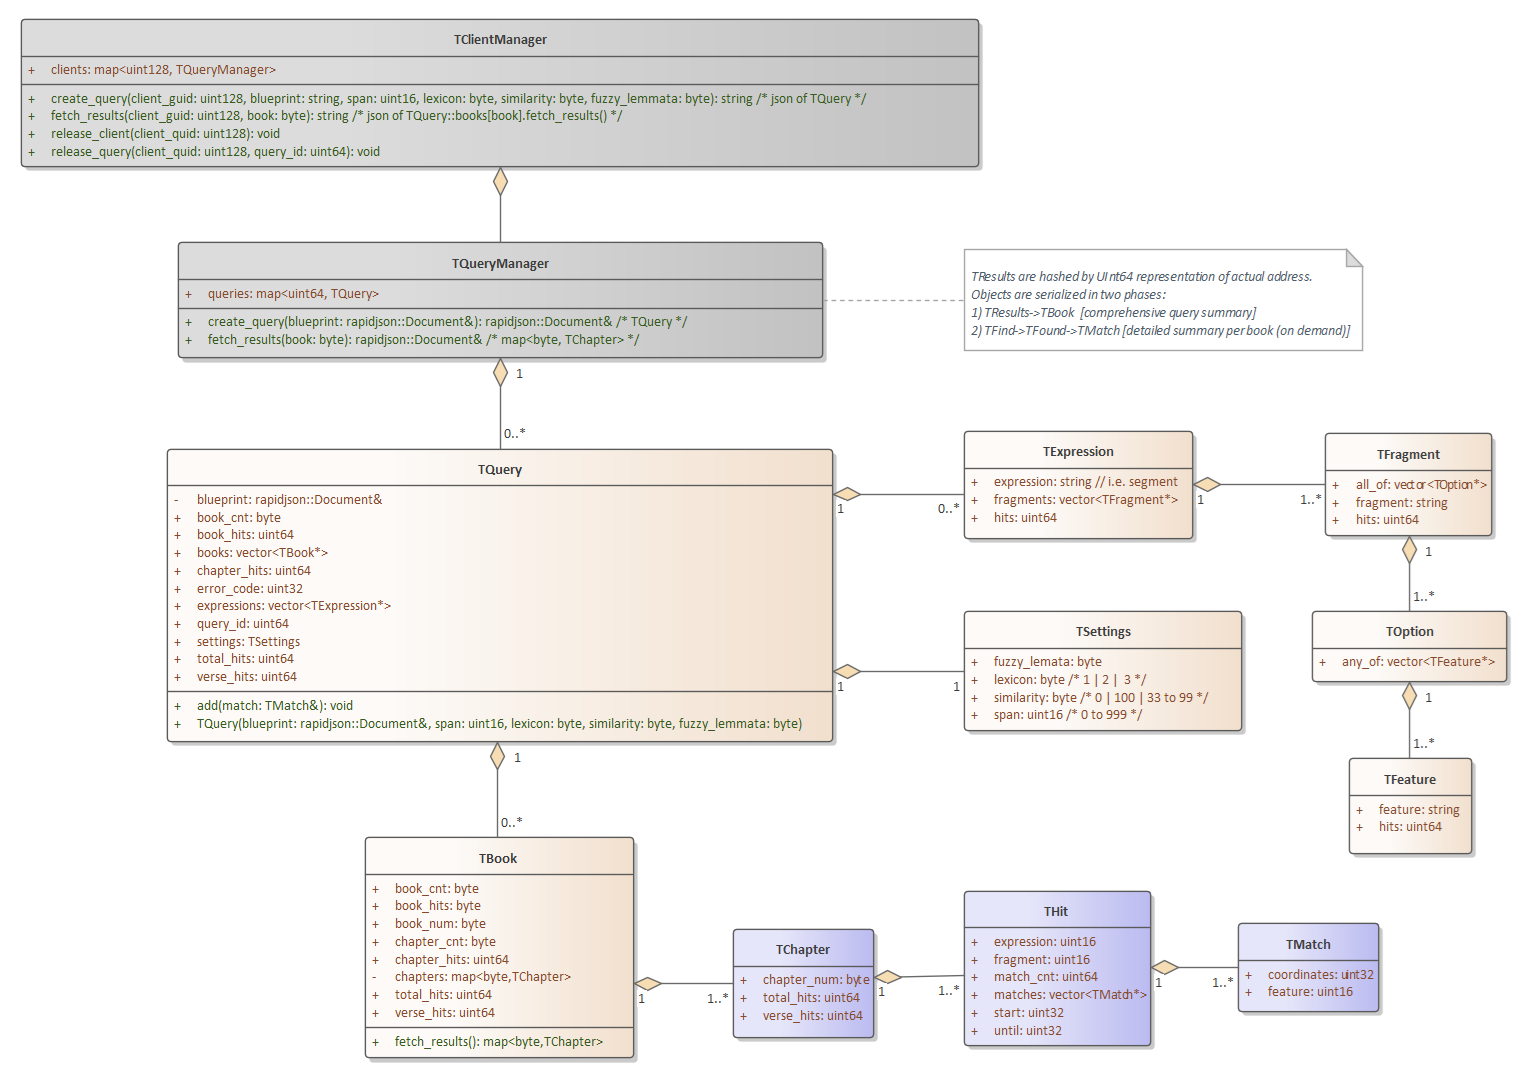
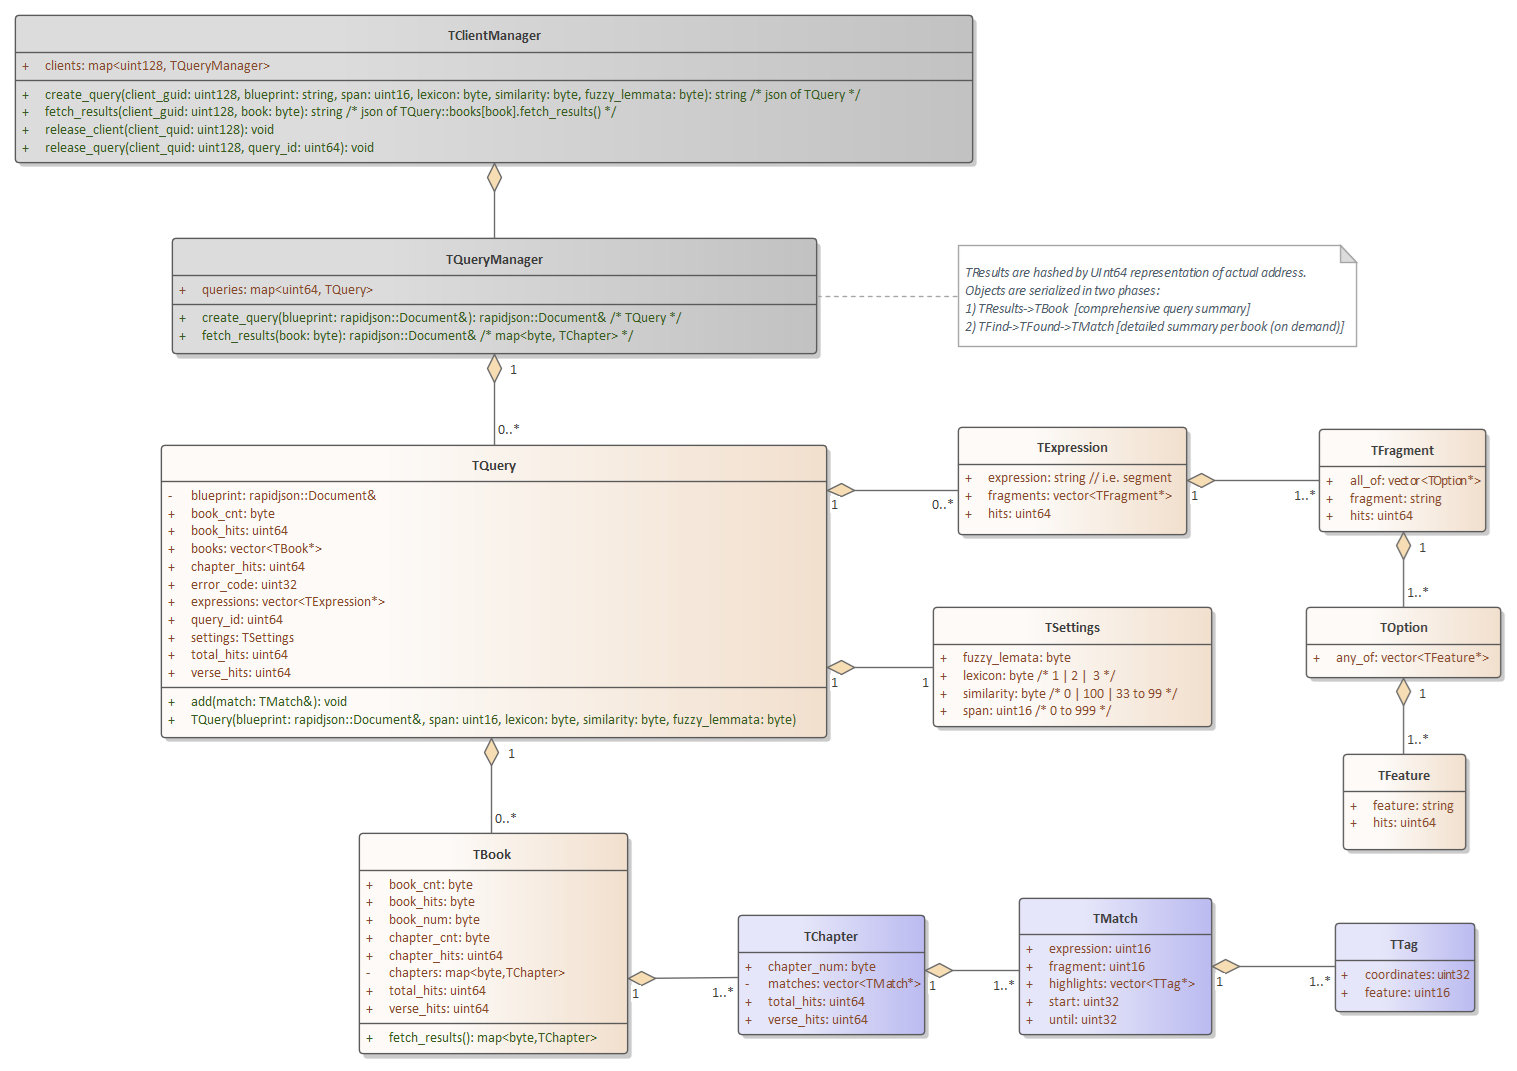
Refactored result model again; should be stabalized now

diff --git a/AVXSearch/TMatch.h b/AVXSearch/TMatch.h
@@ -1,51 +1,42 @@
 ///////////////////////////////////////////////////////////
-//  TMatch.h
-//  Implementation of the Class TMatch
+//  TFound.h
+//  Implementation of the Class TFound
 //  Created on:      29-Nov-2023 11:27:00 PM
 //  Original author: Me
 ///////////////////////////////////////////////////////////
 
-#if !defined(EA_0242817E_0000_4662_9FD8_C11A766FDD3F__INCLUDED_)
-#define EA_0242817E_0000_4662_9FD8_C11A766FDD3F__INCLUDED_
+#if !defined(EA_E07CC064_DC37_4046_A402_A2744A35A453__INCLUDED_)
+#define EA_E07CC064_DC37_4046_A402_A2744A35A453__INCLUDED_
 
 #include <avxgen.h>
+#include <TTag.h>
+#include <TQuery.h>
+
 #include <string>
 #include <vector>
 
+class AVXFind;
+class TQuery;
 class TMatch
 {
-public:
-    uint16 feature;
-    uint32 coordinates;
 
-    TMatch(uint32 coordinates, uint16 feature)
-    {
-        this->feature = feature;
-        this->coordinates = coordinates;
-    }
-    ~TMatch()
-    {
-        ;
-    }
-    inline byte get_book()
-    {
-        return byte(coordinates >> 24);
-    }
-    inline byte get_chapter()
-    {
-        return byte(0xFF & (coordinates >> 16));
-    }
-    inline byte get_verse()
-    {
-        return byte(0xFF & (coordinates >> 8));
-    }
-    inline byte word()
-    {
-        return byte(0xFF & coordinates);
-    }
-    inline static uint32 CreateCoordinate(byte b, byte c, byte v, byte w)
-    {
-        return (uint32(b) << 24) | (uint32(c) << 16) | (uint32(v) << 8) | uint32(w);
-    }
+public:
+	TMatch(TQuery& query, AVXFind& segment, std::string& expression, std::string& fragment, uint32 start, uint32 until);
+	virtual ~TMatch();
+
+	uint32 start;
+	uint32 until;
+
+	bool add(TTag* match);
+
+	std::vector<const TTag*> highlights;
+	uint16 expression;
+	uint16 fragment;
+
+	TQuery& find();
+
+private:
+	TQuery& query;
+	AVXFind& segment;
 };
-#endif // !defined(EA_0242817E_0000_4662_9FD8_C11A766FDD3F__INCLUDED_)
+#endif // !defined(EA_E07CC064_DC37_4046_A402_A2744A35A453__INCLUDED_)

diff --git a/AVXSearch/TTag.h b/AVXSearch/TTag.h
@@ -1,0 +1,51 @@
+///////////////////////////////////////////////////////////
+//  TMatch.h
+//  Implementation of the Class TMatch
+//  Created on:      29-Nov-2023 11:27:00 PM
+//  Original author: Me
+///////////////////////////////////////////////////////////
+
+#if !defined(EA_0242817E_0000_4662_9FD8_C11A766FDD3F__INCLUDED_)
+#define EA_0242817E_0000_4662_9FD8_C11A766FDD3F__INCLUDED_
+
+#include <avxgen.h>
+#include <string>
+#include <vector>
+
+class TTag
+{
+public:
+    uint16 feature;
+    uint32 coordinates;
+
+    TTag(uint32 coordinates, uint16 feature)
+    {
+        this->feature = feature;
+        this->coordinates = coordinates;
+    }
+    ~TTag()
+    {
+        ;
+    }
+    inline byte get_book()
+    {
+        return byte(coordinates >> 24);
+    }
+    inline byte get_chapter()
+    {
+        return byte(0xFF & (coordinates >> 16));
+    }
+    inline byte get_verse()
+    {
+        return byte(0xFF & (coordinates >> 8));
+    }
+    inline byte word()
+    {
+        return byte(0xFF & coordinates);
+    }
+    inline static uint32 CreateCoordinate(byte b, byte c, byte v, byte w)
+    {
+        return (uint32(b) << 24) | (uint32(c) << 16) | (uint32(v) << 8) | uint32(w);
+    }
+};
+#endif // !defined(EA_0242817E_0000_4662_9FD8_C11A766FDD3F__INCLUDED_)

diff --git a/AVXSearch/TMatch.cpp b/AVXSearch/TMatch.cpp
@@ -5,10 +5,10 @@
 //  Original author: Me
 ///////////////////////////////////////////////////////////
 
-#include <THit.h>
+#include <TMatch.h>
 #include <TQuery.h>
 
-THit::THit(TQuery& query, AVXFind& segment, std::string& expression, std::string& fragment, uint32 start, uint32 until) : query(query), segment(segment)
+TMatch::TMatch(TQuery& query, AVXFind& segment, std::string& expression, std::string& fragment, uint32 start, uint32 until) : query(query), segment(segment)
 {
     this->start = start;
     this->until = until;
@@ -45,16 +45,16 @@ THit::THit(TQuery& query, AVXFind& segment, std::string& expression, std::string
     }
 }
 
-THit::~THit()
+TMatch::~TMatch()
 {
 
 }
 
-bool THit::add(TMatch* match)
+bool TMatch::add(TTag* match)
 {
     if (match != nullptr)
     {
-        this->matches.push_back(match);
+        this->highlights.push_back(match);
 
         if (match->coordinates < this->start)
         {

diff --git a/AVXSearch/TChapter.h b/AVXSearch/TChapter.h
@@ -9,10 +9,10 @@
 #define EA_83E1859E_E328_4c40_B295_9C616D380578__INCLUDED_
 
 #include <avxgen.h>
-#include "THit.h"
+#include "TMatch.h"
 #include <vector>
 
-class THit;
+class TMatch;
 class TChapter
 {
 
@@ -23,6 +23,6 @@ public:
 	uint64 total_hits;
 	uint64 verse_hits;
 
-	std::vector<const THit*> findings;
+	std::vector<const TMatch*> matches;
 };
 #endif // !defined(EA_83E1859E_E328_4c40_B295_9C616D380578__INCLUDED_)

diff --git a/AVXSearch/TQueryManager.cpp b/AVXSearch/TQueryManager.cpp
@@ -10,7 +10,7 @@
 #include "AVXBlueprint.h"
 #include "AVXFind.h"
 #include <TMatch.h>
-#include <THit.h>
+#include <TTag.h>
 #include <map>
 #include <directory.h>
 #include <book.h>

diff --git a/AVXSearch/OBSOLETE_AVXSearch.cpp b/AVXSearch/OBSOLETE_AVXSearch.cpp
@@ -3,7 +3,7 @@
 #include "AVXBlueprint.h"
 #include "AVXFind.h"
 #include <TMatch.h>
-#include <THit.h>
+#include <TTag.h>
 #include <map>
 #include <directory.h>
 #include <book.h>
